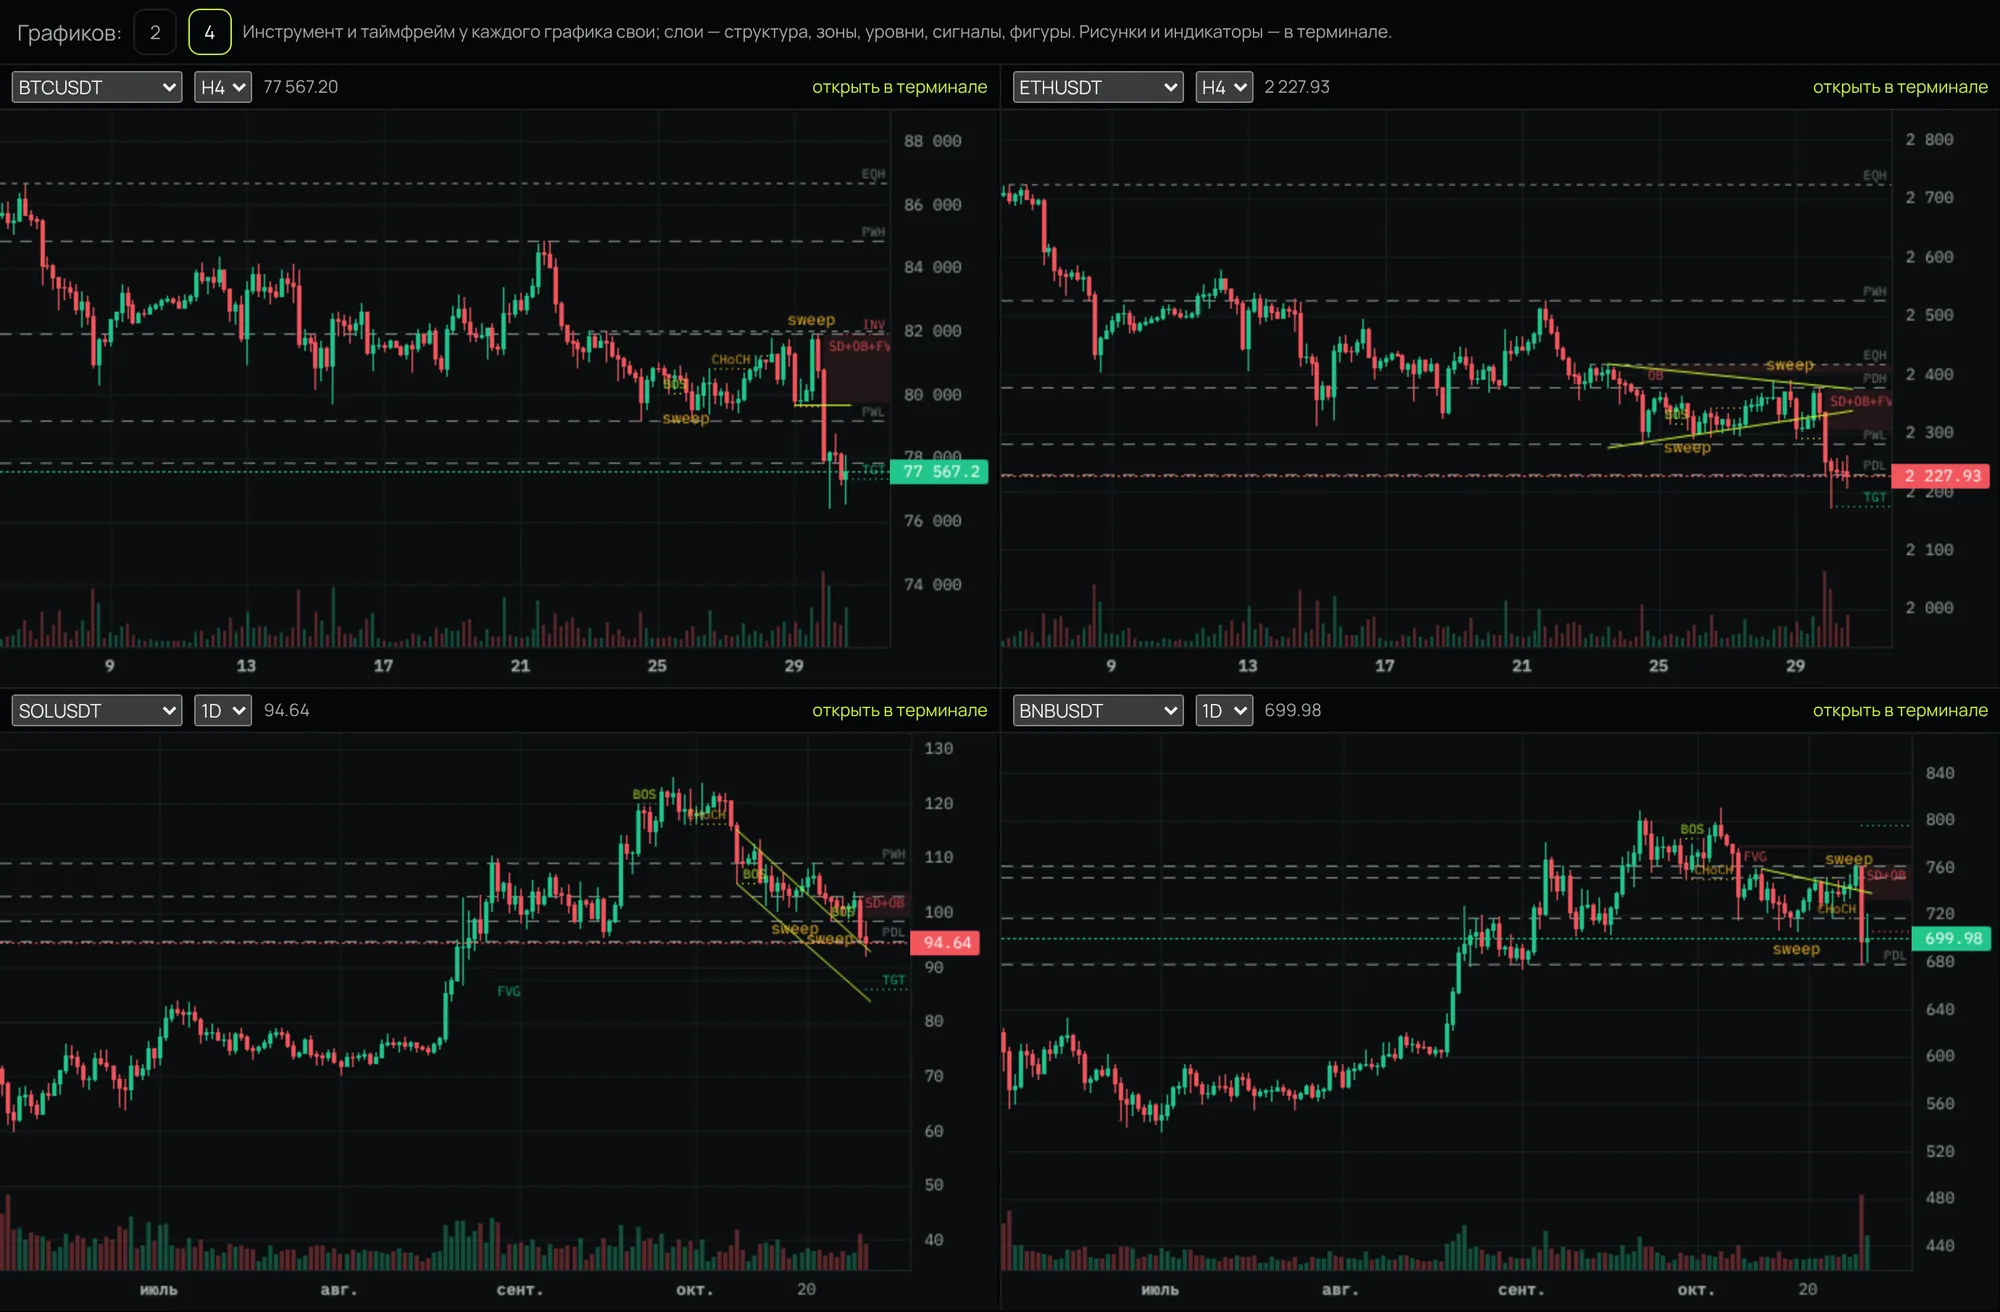
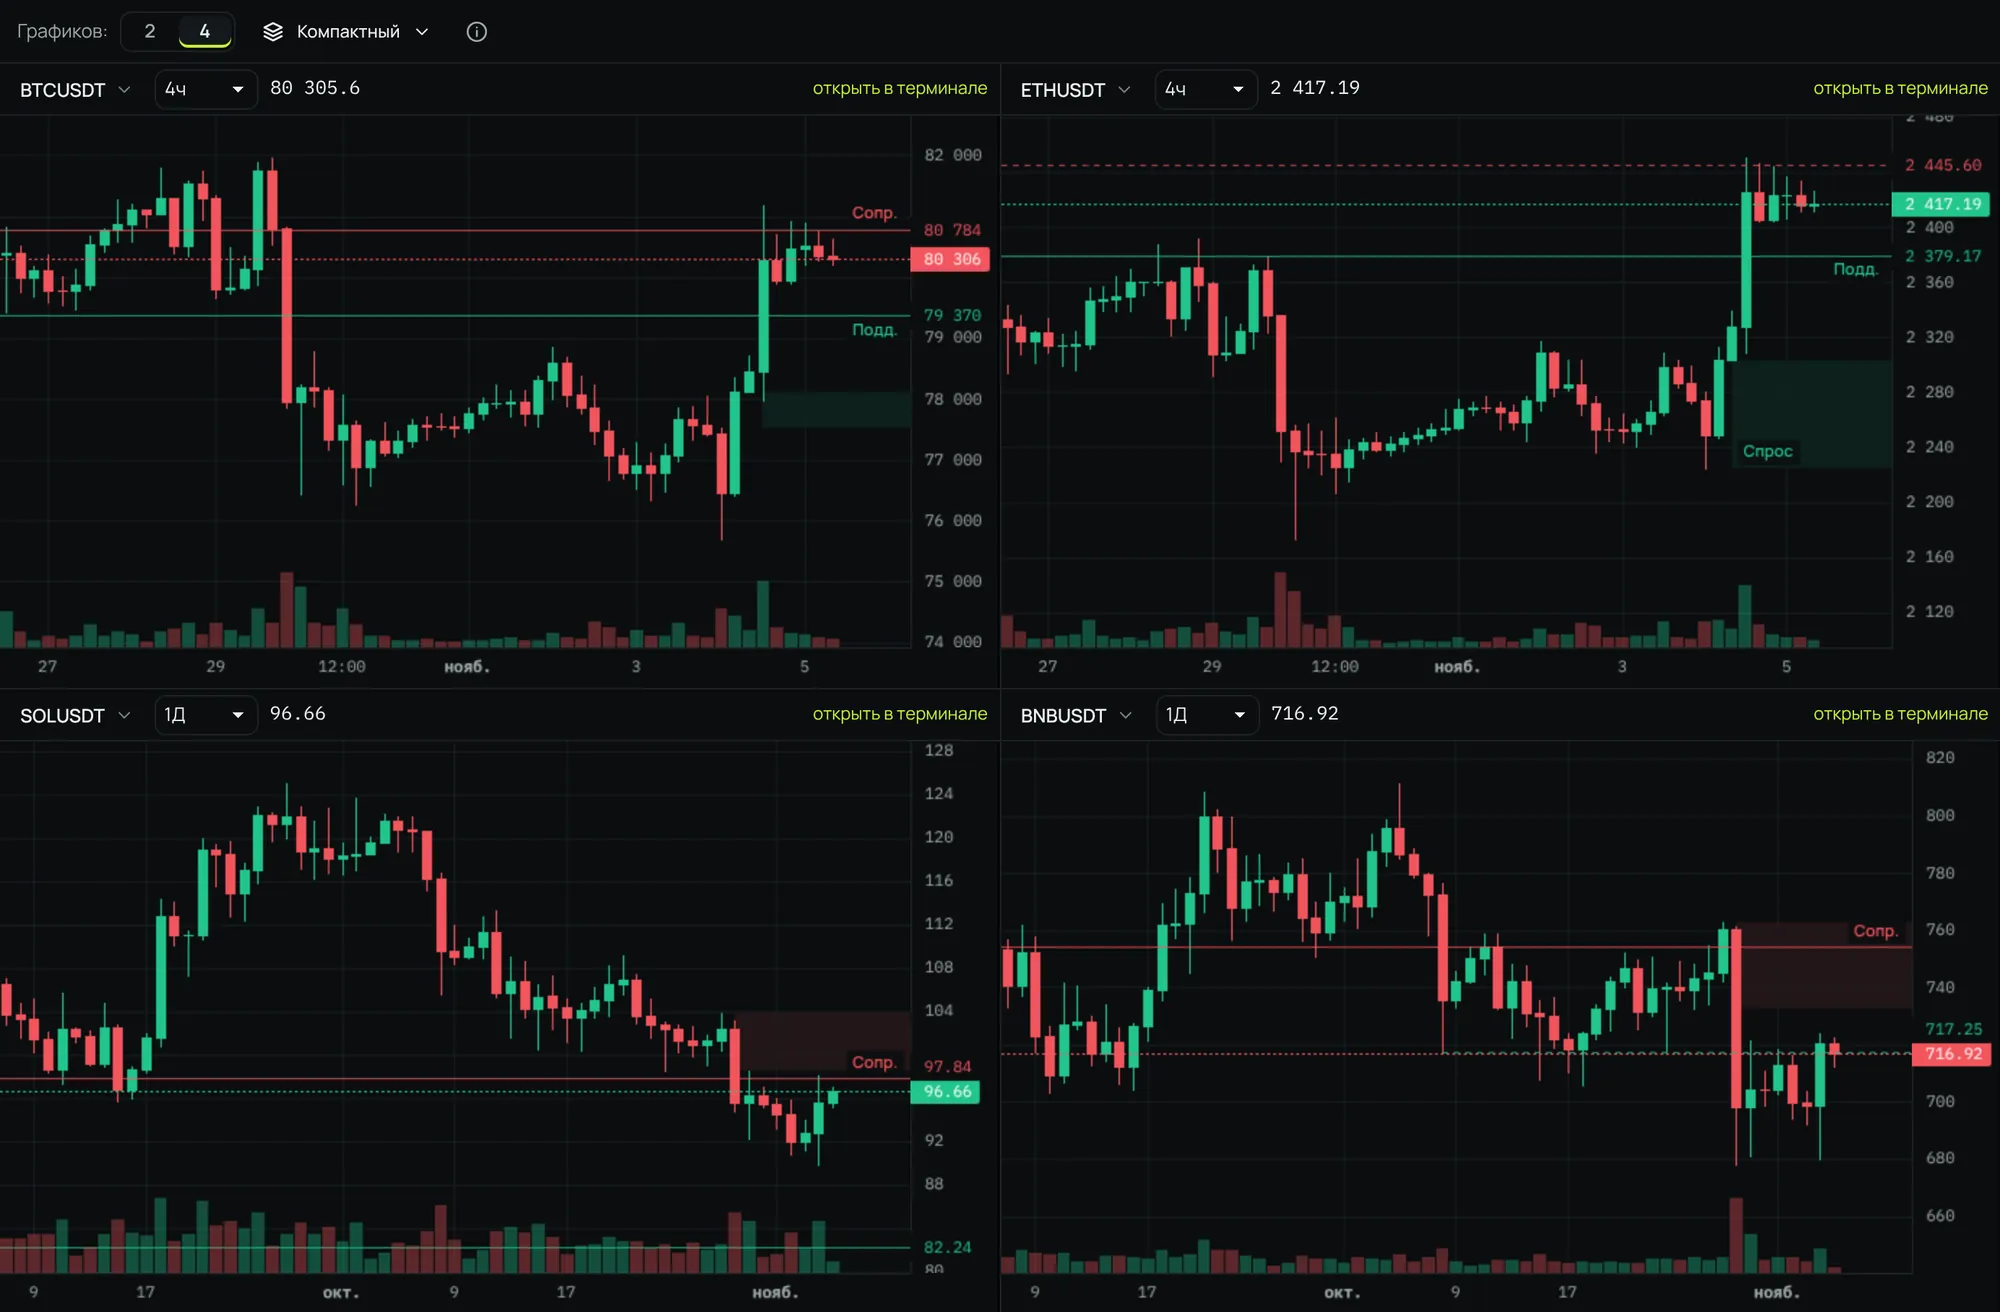
feat(landing): свежие снимки графика и тексты — как на графике сейчас
Картинки главной заменены снимками текущего production (гость, тёмная тема): телефон 390×844 @2x с
BTCUSDT 4ч и разметкой «Уровни и зоны»; мультичарт на 4 графика с разметкой «Компактный»; список «Уровни»
на панели «Найдено»; график BTCUSDT 4ч с разметкой «Карта ликвидаций». Размеры и пропорции прежние, webp q80.
Подписи и alt описывают ровно то, что на снимках.

Тексты приведены к словам графика: «поддержка и сопротивление», «зоны спроса и предложения», «пробои и
смены направления», «ликвидации»; в «Основах разметки» OB, FVG и CHoCH остались и названы так, как их
показывает график («Спрос»/«Предложение», «Смена ↑/↓»). Полоса «Новое» — про цену прямо с биржи в реальном
времени и позицию Long/Short одним нажатием, без обещаний доходности. Подпись в блоке «Мобильный» снова
внизу полосы. Переводы в en.json обновлены.

Claude-Session: https://claude.ai/code/session_01WAjv9Aq3S3wQ2hJUqE6f3H

diff --git a/apps/web/src/app/page.tsx b/apps/web/src/app/page.tsx
@@ -17,13 +17,16 @@ export async function generateMetadata(): Promise<Metadata> {
   const t = await getT();
   return {
     title: t("PlatformSol — крипто-график для технического анализа"),
-    description: t("Индикаторы, инструменты рисования и автоматическая разметка: уровни, зоны OB и FVG, структура рынка и карта ликвидаций. Монеты Binance — в браузере и на телефоне."),
+    description: t("Индикаторы, инструменты рисования и автоматическая разметка: поддержка и сопротивление, зоны спроса и предложения (ордер-блоки и FVG), пробои структуры и карта ликвидаций. Монеты Binance — в браузере и на телефоне."),
   };
 }
 
 /**
  * Главная (ADR-0006): порядок и сетка блоков — по образцу robinhood.com по просьбе владельца,
  * содержание, изображения и тексты — свои. Цвета блоков — токены --lp-*, не зависят от темы.
+ * Кнопка «Открыть график» — одна, на первом экране. Названия разметки — как на графике (packages/charts
+ * scene/text.ts): «Поддержка», «Сопротивление», «Спрос», «Предложение», «Пробой», «Смена», «Ликвидации».
+ * Картинки public/landing/*.webp — снимки production (гость, тёмная тема); подписи и alt описывают ровно их.
  */
 
 const TRUST = [
@@ -33,10 +36,11 @@ const TRUST = [
   { art: "loupe", t: "Без обещаний доходности — только инструмент анализа." },
 ] as const;
 
+/** Классические сокращения и то, как они подписаны на графике. */
 const BASICS = [
-  { thumb: "ob", t: "Что такое ордер-блок?", p: "Зона, откуда цена ушла импульсом; цена может к ней вернуться" },
-  { thumb: "fvg", t: "Что такое FVG?", p: "Разрыв между свечами, который цена может заполнить" },
-  { thumb: "choch", t: "Что такое CHoCH?", p: "Первый слом структуры против тренда — возможный разворот" },
+  { thumb: "ob", t: "Что такое ордер-блок (OB)?", p: "Зона, откуда цена ушла импульсом и может к ней вернуться. На графике — зона «Спрос» или «Предложение»" },
+  { thumb: "fvg", t: "Что такое FVG?", p: "Разрыв цены между свечами, который цена может заполнить. На графике — тоже зона «Спрос» или «Предложение»" },
+  { thumb: "choch", t: "Что такое CHoCH?", p: "Первый пробой против прежнего движения — возможная смена направления. На графике — метка «Смена ↑» или «Смена ↓»" },
 ] as const;
 
 export default async function Home() {
@@ -51,7 +55,7 @@ export default async function Home() {
         {/* Полоса-объявление */}
         <p className={s.promo}>
           <b>{t("Новое:")}</b>{" "}
-          <Link href="/chart/BTCUSDT/4h">{t("расчётная карта ликвидаций с суммами в долларах — прямо на графике")}</Link>. {t("Бесплатно, без регистрации.")}
+          <Link href="/chart/BTCUSDT/4h">{t("цена прямо с биржи в реальном времени")}</Link>; {t("позиция Long/Short — одним нажатием.")} {t("Бесплатно, без регистрации.")}
         </p>
 
         {/* Первый экран */}
@@ -64,7 +68,7 @@ export default async function Home() {
               {t("Без рутины.")}
             </h1>
             <p className={s.heroSub}>
-              {nb(t("{i} индикаторов, {d} инструментов рисования, авторазметка: уровни, зоны, структура рынка, ликвидации.", { i: COUNTS.indicators, d: COUNTS.tools }))}{" "}
+              {nb(t("{i} индикаторов, {d} инструментов рисования, авторазметка: поддержка и сопротивление, зоны спроса и предложения, ликвидации.", { i: COUNTS.indicators, d: COUNTS.tools }))}{" "}
               {coins !== null &&
                 nb(t(plural(coins, "{n} монета Binance — бесплатно.", "{n} монеты Binance — бесплатно.", "{n} монет Binance — бесплатно."), { n: coins }))}
             </p>
@@ -81,7 +85,7 @@ export default async function Home() {
               <DeskTools />
               <div className={s.tablet}>
                 {/* eslint-disable-next-line @next/next/no-img-element */}
-                <img src="/landing/multi.webp" width={2000} height={1312} alt={t("Мультичарт PlatformSol: четыре графика с автоматической разметкой")} loading="lazy" />
+                <img src="/landing/multi.webp" width={2000} height={1312} alt={t("Мультичарт PlatformSol: четыре графика — BTCUSDT и ETHUSDT на 4 часах, SOLUSDT и BNBUSDT на 1 дне — с поддержкой, сопротивлением и зонами спроса")} loading="lazy" />
               </div>
             </div>
           </div>
@@ -91,7 +95,7 @@ export default async function Home() {
               {nb(t("Разметка, индикаторы и рынок — в одном окне"))}
             </h2>
             <p>{nb(t("{i} индикаторов, {d} инструментов рисования, мультичарт на 4 графика и алерты прямо с графика.", { i: COUNTS.indicators, d: COUNTS.tools }))}</p>
-            <p className={s.fine}>{t("Данные: Binance Futures. Информация не является инвестиционной рекомендацией.")}</p>
+            <p className={s.fine}>{t("На снимке — мультичарт на 4 графика с разметкой «Компактный». Данные: Binance Futures. Информация не является инвестиционной рекомендацией.")}</p>
           </div>
         </section>
 
@@ -100,9 +104,9 @@ export default async function Home() {
           <div className={`${s.visual} ${s.cards}`}>
             <span className={s.beam} aria-hidden="true" />
             {/* eslint-disable-next-line @next/next/no-img-element */}
-            <img className={s.cardLiq} src="/landing/liq.webp" width={900} height={1340} alt={t("Карта ликвидаций с суммами на графике BTCUSDT")} loading="lazy" />
+            <img className={s.cardLiq} src="/landing/liq.webp" width={900} height={1340} alt={t("График BTCUSDT, 4 часа, разметка «Карта ликвидаций»: полоса ликвидаций у шкалы цен с расчётными суммами в долларах, линии поддержки и сопротивления")} loading="lazy" />
             {/* eslint-disable-next-line @next/next/no-img-element */}
-            <img className={s.cardLv} src="/landing/levels.webp" width={600} height={1200} alt={t("Список уровней, зон и ликвидаций с ценами")} loading="lazy" />
+            <img className={s.cardLv} src="/landing/levels.webp" width={600} height={1200} alt={t("Список «Уровни» на панели «Найдено»: сопротивление, поддержка, максимумы и минимумы дня и недели, зоны спроса — с ценой и расстоянием до неё")} loading="lazy" />
           </div>
           <div className={`${s.copy} ${s.right}`}>
             <p className={s.lockup}>
@@ -112,12 +116,12 @@ export default async function Home() {
             <h2 id="h-auto" className={s.h2}>
               {nb(t("Уровни, зоны и ликвидации — сами"))}
             </h2>
-            <p>{nb(t("Уровни по касаниям, ордер-блоки, FVG, сломы структуры и карта ликвидаций — со списком цен."))}</p>
+            <p>{nb(t("Поддержка и сопротивление по касаниям, зоны спроса и предложения, пробои и смены направления, карта ликвидаций — и список найденного с ценами."))}</p>
             <p className={s.info}>
               <span aria-hidden="true">i</span>
               {nb(t("Карта ликвидаций — расчётная оценка, а не данные биржи"))}
             </p>
-            <p className={s.fine}>{t("Структура и зоны строятся только по закрытым свечам.")}</p>
+            <p className={s.fine}>{t("На снимках — BTCUSDT, 4 часа: разметка «Карта ликвидаций» и список «Уровни». Структура и зоны строятся только по закрытым свечам.")}</p>
           </div>
         </section>
 
@@ -133,12 +137,12 @@ export default async function Home() {
             </h2>
             <p>{nb(t("Масштаб двумя пальцами, перекрестие по удержанию пальца, рисование и индикаторы из нижней панели. Ничего не нужно устанавливать — сайт можно добавить на главный экран."))}</p>
             <p>{t("Работает в любом современном браузере.")}</p>
-            <p className={s.fine}>{t("На скриншоте — BTCUSDT, 4 часа, с картой ликвидаций и структурой рынка.")}</p>
+            <p className={s.fine}>{t("На скриншоте — BTCUSDT, 4 часа, разметка «Уровни и зоны»: сопротивление, поддержка, зона спроса и максимум вчерашнего дня.")}</p>
           </div>
           <div className={`${s.visual} ${s.phoneWrap}`}>
             <div className={s.phone}>
               {/* eslint-disable-next-line @next/next/no-img-element */}
-              <img src="/landing/phone.webp" width={390} height={844} alt={t("График PlatformSol на телефоне")} loading="lazy" />
+              <img src="/landing/phone.webp" width={390} height={844} alt={t("График BTCUSDT на телефоне: разметка «Уровни и зоны», цена в реальном времени и нижняя панель с кнопками")} loading="lazy" />
             </div>
           </div>
         </section>

diff --git a/apps/web/src/app/page.module.css b/apps/web/src/app/page.module.css
@@ -377,7 +377,8 @@
     margin-top: 30px !important;
   }
 
-  .copy.left > p + p {
+  /* подпись к картинке (.fine) — внизу полосы, а не сразу под текстом */
+  .copy.left > p + p:not(.fine) {
     margin-top: 25px !important;
   }
 }
